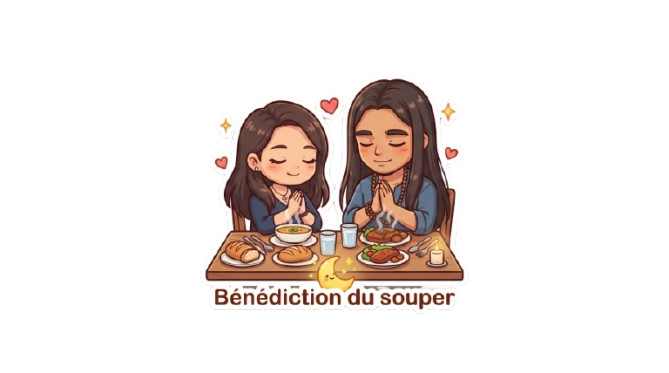
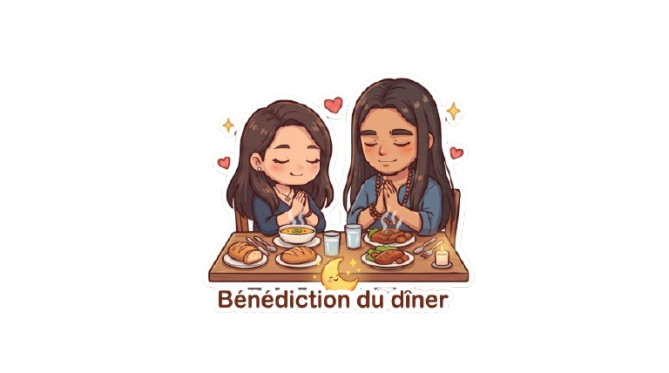
maj menu et img

Changed region(s): [[0.299, 0.2064, 0.7175, 0.8257]]

diff --git a/script.js b/script.js
@@ -1,4 +1,5 @@
 // Dictionnaire des traductions de l'interface
+// Dictionnaire des traductions de l'interface
 const uiTranslations = {
     fr: {
         title: "Bénédictions",
@@ -10,7 +11,9 @@ const uiTranslations = {
         favTitle: "❤ Favoris",
         clickHint: "Cliquez sur l'image",
         noFavs: "Aucun favori pour le moment.",
-        designedBy: "CONÇU ET DÉVELOPPÉ PAR"
+        designedBy: "CONÇU ET DÉVELOPPÉ PAR",
+        infoTitle: "ℹ À propos",
+        infoDesc: "Ces prières sont extraites du livre de prières des moines de l'abbaye de Saint-Wandrille."
     },
     en: {
         title: "Blessings",
@@ -22,7 +25,9 @@ const uiTranslations = {
         favTitle: "❤ Favorites",
         clickHint: "Click on the image",
         noFavs: "No favorites yet.",
-        designedBy: "DESIGNED AND DEVELOPED BY"
+        designedBy: "DESIGNED AND DEVELOPED BY",
+        infoTitle: "ℹ About",
+        infoDesc: "These prayers are taken from the prayer book of the monks of Saint-Wandrille Abbey."
     },
     vi: {
         title: "Cầu Nguyện",
@@ -34,7 +39,9 @@ const uiTranslations = {
         favTitle: "❤ Yêu thích",
         clickHint: "Nhấn vào hình ảnh",
         noFavs: "Chưa có mục yêu thích.",
-        designedBy: "THIẾT KẾ VÀ PHÁT TRIỂN BỞI"
+        designedBy: "THIẾT KẾ VÀ PHÁT TRIỂN BỞI",
+        infoTitle: "ℹ Giới thiệu",
+        infoDesc: "Những lời cầu nguyện này được trích từ sách cầu nguyện của các đan sĩ tu viện Saint-Wandrille."
     }
 };
 

diff --git a/index.html b/index.html
@@ -66,6 +66,13 @@
             <h3 data-i18n="favTitle">❤ Favoris</h3>
             <ul id="favorites-list" class="favorites-list"></ul>
         </div>
+        
+        <div class="menu-section">
+            <h3 data-i18n="infoTitle">ℹ À propos</h3>
+            <p class="menu-desc" data-i18n="infoDesc" style="font-style: italic; line-height: 1.4;">
+                Ces prières sont extraites du livre de prières des moines de l'abbaye de Saint-Wandrille.
+            </p>
+        </div>
 
         <div class="menu-footer">
             <p><span data-i18n="designedBy">CONÇU ET DÉVELOPPÉ PAR</span> <span class="bpm-text">BPM</span> © 2026</p>

diff --git a/style.css b/style.css
@@ -57,6 +57,15 @@ body {
     outline: none;
 }
 
+img {
+  /* Empêche la sélection de texte/image sur mobile et desktop */
+  -webkit-user-select: none; /* Safari / Chrome mobile */
+  user-select: none;         /* Standard */
+  
+  /* Empêche le menu contextuel natif de "copier l'image" ou "enregistrer" au long appui (optionnel) */
+  -webkit-touch-callout: none; 
+} 
+
 .image-wrapper {
     margin-top: 20px;
     text-align: center;
